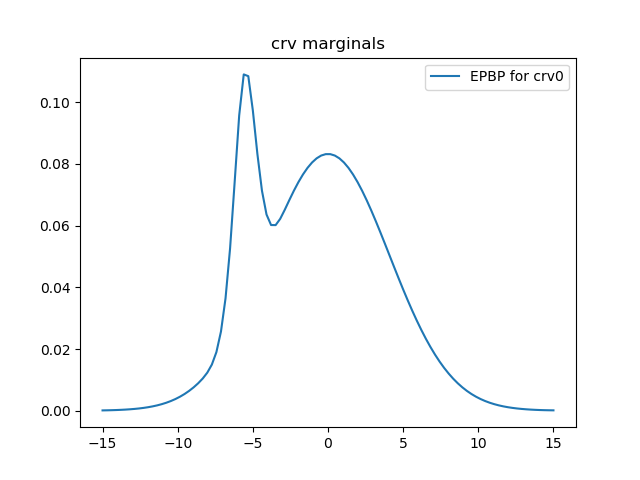
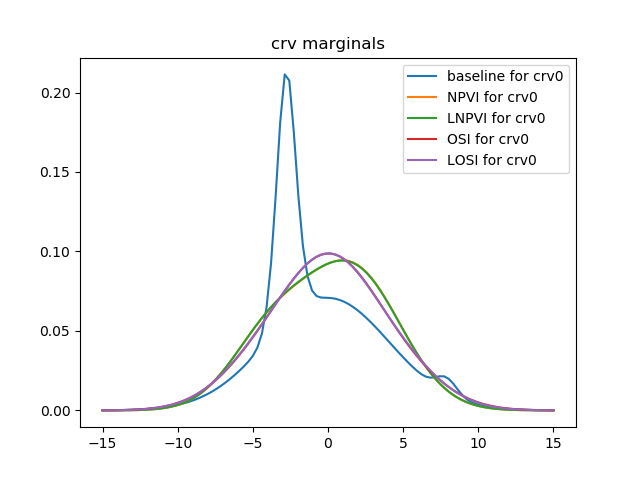
rerun hmln_experiment with (lifted) NPVI; NPVI very similar to (though tiny bit worse than) OSI; lifted vs unlifted versions basically the same
baseline:
{'cpu_time': (0.0, 0.0),
 'kl_err': (0.0, 0.0),
 'mmap_err': (0.0, 0.0),
 'obj': (-5.8340008010239135, 0.0),
 'wall_time': (0.0, 0.0)}
NPVI:
{'cpu_time': (6.5534648319999995, 0.0),
 'kl_err': (0.12551370745579113, 0.0),
 'mmap_err': (3.2353934364910772, 0.0),
 'obj': (-5.24144446375243, 0.0),
 'wall_time': (6.450061082839966, 0.0)}
LNPVI:
{'cpu_time': (6.431556630000001, 0.0),
 'kl_err': (0.1271713243699843, 0.0),
 'mmap_err': (3.384821759327945, 0.0),
 'obj': (-5.240945497886146, 0.0),
 'wall_time': (6.325645446777344, 0.0)}
OSI:
{'cpu_time': (6.739728926999998, 0.0),
 'kl_err': (0.11859400568720524, 0.0),
 'mmap_err': (2.7521625734144832, 0.0),
 'obj': (-5.190466087373344, 0.0),
 'wall_time': (6.788265943527222, 0.0)}
LOSI:
{'cpu_time': (6.553624065000001, 0.0),
 'kl_err': (0.11990305453643471, 0.0),
 'mmap_err': (2.7806044089310884, 0.0),
 'obj': (-5.190105471152382, 0.0),
 'wall_time': (6.4528563022613525, 0.0)}

diff --git a/osi/hmln_experiment.py b/osi/hmln_experiment.py
@@ -6,6 +6,7 @@ from MLNPotential import *
 from Potential import QuadraticPotential, TablePotential, HybridQuadraticPotential
 from EPBPLogVersion import EPBP
 from OneShot import OneShot, LiftedOneShot
+from NPVI import NPVI, LiftedNPVI
 from CompressedGraphSorted import CompressedGraphSorted
 import numpy as np
 import time
@@ -81,7 +82,9 @@ record_fields = ['cpu_time',
                  'mmap_err',  # |argmax p(xi) - argmax q(xi)|, avg over all nodes i
                  'kl_err',  # kl(p(xi)||q(xi)), avg over all nodes i
                  ]
-algo_names = ['baseline', 'EPBP', 'OSI', 'LOSI']
+# algo_names = ['baseline', 'EPBP', 'OSI', 'LOSI']
+# algo_names = ['baseline', 'NPVI', 'OSI', ]
+algo_names = ['baseline', 'NPVI', 'LNPVI', 'OSI', 'LOSI']
 # algo_names = ['baseline', 'EPBP']
 # algo_names = ['EPBP']
 # assert algo_names[0] == 'baseline'
@@ -95,7 +98,8 @@ for test_num in range(num_tests):
 
     # regenerate/reload evidence
     data.clear()
-    B_vals = np.random.normal(loc=0, scale=10, size=len(S))  # special treatment for the story
+    obs_scale = 5
+    B_vals = np.random.normal(loc=0, scale=obs_scale, size=len(S))  # special treatment for the story
     # B_vals = np.random.uniform(low=domain_real.values[0], high=domain_real.values[1], size=len(S))
     # B_vals = [-14, 2, 20]
     for i, s in enumerate(S):
@@ -287,27 +291,30 @@ for test_num in range(num_tests):
                 assert rv.domain_type[0] == 'c', 'only looking at kl for cnode queries for now'
                 # lb, ub = -np.inf, np.inf
                 lb, ub = rv.domain.values[0], rv.domain.values[1]
-                # marg_kl = max(0, kl_continuous_logpdf(log_p=baseline_margs[i], log_q=margs[i], a=lb, b=ub))
-                marg_kl = 100
+                marg_kl = max(0, kl_continuous_logpdf(log_p=baseline_margs[i], log_q=margs[i], a=lb, b=ub))
                 marg_kls[i] = marg_kl
 
-        elif algo_name == 'OSI' or algo_name == 'LOSI':
+        elif algo_name in ('OSI', 'LOSI', 'NPVI', 'LNPVI'):
             cond = True
             if cond:
                 cond_g.init_nb()  # this will make cond_g rvs' .nb attributes consistent (baseline didn't care so it was OK)
-            K = 2
+            K = 3
             T = 16
             lr = 0.5
-            its = 1000
+            its = 1500
             fix_mix_its = int(its * 0.5)
             logging_itv = 50
             utils.set_log_potential_funs(g.factors_list, skip_existing=True)  # g factors' lpot_fun should still be None
             # above will also set the lpot_fun in all the (completely unobserved) factors in cond_g
-            if algo_name == 'OSI':
-                if cond:
-                    osi = OneShot(g=cond_g, K=K, T=T, seed=seed)
+            if algo_name in ('OSI', 'NPVI'):
+                if cond:  # TODO: ugly; fix
+                    _g = cond_g
                 else:
-                    osi = OneShot(g=g, K=K, T=T, seed=seed)
+                    _g = g
+                if algo_name == 'OSI':
+                    vi = OneShot(g=_g, K=K, T=T, seed=seed)
+                else:
+                    vi = NPVI(g=_g, K=K, T=T, isotropic_cov=False, seed=seed)
             else:
                 if cond:
                     cg = CompressedGraphSorted(cond_g)
@@ -317,29 +324,32 @@ for test_num in range(num_tests):
                 cg.run()
                 print('number of rvs in cg', len(cg.rvs))
                 print('number of factors in cg', len(cg.factors))
-                osi = LiftedOneShot(g=cg, K=K, T=T, seed=seed)
+                if algo_name == 'LOSI':
+                    vi = LiftedOneShot(g=cg, K=K, T=T, seed=seed)
+                else:
+                    vi = LiftedNPVI(g=cg, K=K, T=T, seed=seed)
             if cond:  # clean up; only needed cond_g.init_nb() for defining symbolic objective
                 for i, rv in enumerate(g.rvs_list):
                     rv.nb = g_rv_nbs[i]  # restore; undo possible mutation from cond_g.init_nb()
 
             start_time = time.process_time()
             start_wall_time = time.time()
-            res = osi.run(lr=lr, its=its, fix_mix_its=fix_mix_its, logging_itv=logging_itv)
+            res = vi.run(lr=lr, its=its, fix_mix_its=fix_mix_its, logging_itv=logging_itv)
             cpu_time = time.process_time() - start_time
             wall_time = time.time() - start_wall_time
-            obj = res['record']['bfe'][-1]
+            obj = res['record']['obj'][-1]
 
             for i, rv in enumerate(query_rvs):
                 if cond:
-                    m = osi.map(obs_rvs=[], query_rv=rv)
+                    m = vi.map(obs_rvs=[], query_rv=rv)
                     crv_idx = cond_g.Vc_idx[rv]
                 else:
-                    m = osi.map(obs_rvs=obs_rvs, query_rv=rv)
+                    m = vi.map(obs_rvs=obs_rvs, query_rv=rv)
                     crv_idx = g.Vc_idx[rv]
                 mmap[i] = m
 
                 assert rv.domain_type[0] == 'c', 'only looking at kl for cnode queries for now'
-                crv_marg_params = osi.params['w'], osi.params['Mu'][crv_idx], osi.params['Var'][crv_idx]
+                crv_marg_params = vi.params['w'], vi.params['Mu'][crv_idx], vi.params['Var'][crv_idx]
                 marg_logpdf = utils.get_scalar_gm_log_prob(None, *crv_marg_params, get_fun=True)
                 margs[i] = marg_logpdf
                 # lb, ub = -np.inf, np.inf

diff --git a/osi/OneShot.py b/osi/OneShot.py
@@ -219,7 +219,7 @@ class OneShot:
         self.sess = sess  # will cache session from last run
 
         gvnames = ['g' + v.name.split(':')[0] for v in trainable_params]
-        record = {n: [] for n in gvnames + ['bfe']}
+        record = {n: [] for n in gvnames + ['obj']}
 
         sess.run(tf.global_variables_initializer())  # always reinit
         for it in range(its):
@@ -264,7 +264,7 @@ class OneShot:
                     grad = grad.values  # somehow gMu is a IndexedSlicesValue
                 avg_grads.append(np.mean(np.abs(grad)))
             it_record = dict(zip(gvnames, avg_grads))
-            it_record['bfe'] = bfe_
+            it_record['obj'] = bfe_
             it_record['t'] = it
             if it % logging_itv == 0 or it + 1 == its:
                 for key in sorted(it_record.keys()):

diff --git a/osi/config.py b/osi/config.py
@@ -9,5 +9,5 @@ tfconfig.inter_op_parallelism_threads = num_threads
 # if True, will ignore constant terms in LogQuadratic when evaluating log pot
 # in mixture_beliefs.py; ok to ignore in e.g. Gaussian mrfs, so tensorflow may
 # be more numerically stable/accurate; can give wrong result in say hybrid mrf
-ignore_const_when_group_eval_LogQuadratic = True
+ignore_const_when_group_eval_LogQuadratic = False
 
